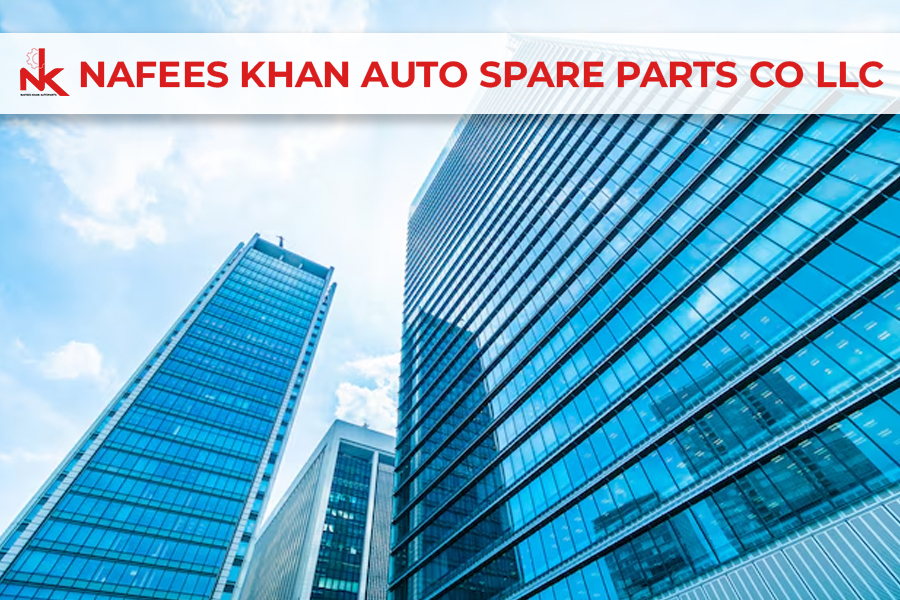
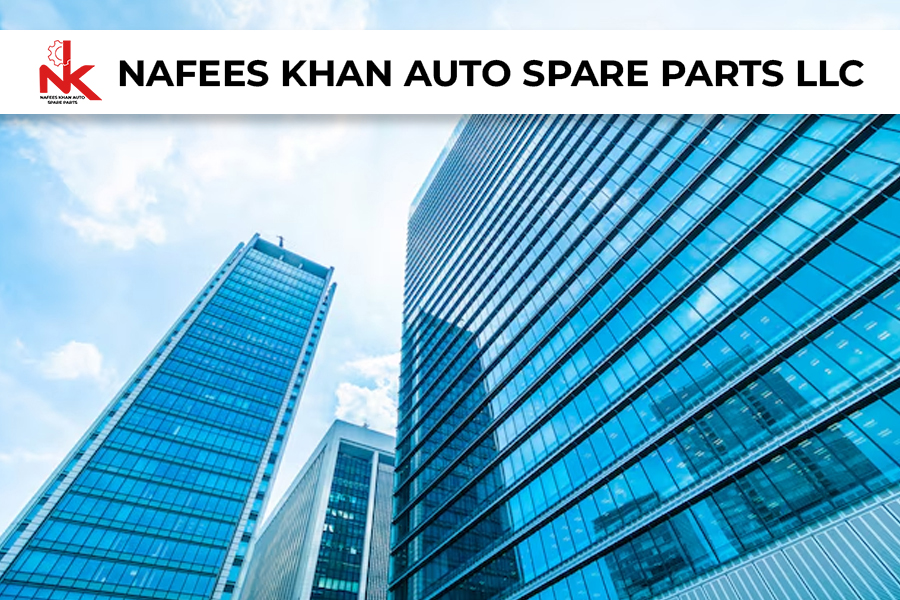
fix(bolg): updated name

diff --git a/resources/views/pages/dashboard/blog.blade.php b/resources/views/pages/dashboard/blog.blade.php
@@ -11,8 +11,8 @@
           <img src="{{asset('assets/media/blog/nkasp.jpg')}}" class="card-img-top" alt="AC Compressor">
           {{-- <div class="position-absolute top-0 end-0 bg-primary text-white px-2 py-1">Auto Maintenance</div> --}}
           <div class="card-body">
-            <h5 class="card-title">Nafees Khan Auto Spare Parts Co L.L.C</h5>
-            <p class="card-text">Nafees Auto Spare Parts Co. LLC is your trusted partner in providing high-quality automotive parts and accessories. With a commitment to excellence and customer satisfaction, we offer a wide range of genuine and aftermarket products to meet all your vehicle needs. Our experienced team ensures fast, reliable service, helping you keep your vehicles running smoothly.</p>
+            <h5 class="card-title">{{ config('app.name') }}</h5>
+            <p class="card-text">{{ config('app.name') }} is your trusted partner in providing high-quality automotive parts and accessories. With a commitment to excellence and customer satisfaction, we offer a wide range of genuine and aftermarket products to meet all your vehicle needs. Our experienced team ensures fast, reliable service, helping you keep your vehicles running smoothly.</p>
           </div>
           <div class="card-footer bg-white py-4">
             <small class="text-primary">August 27, 2023 • No Comments</small>
